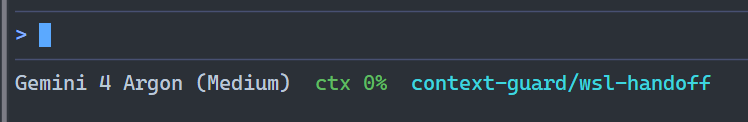
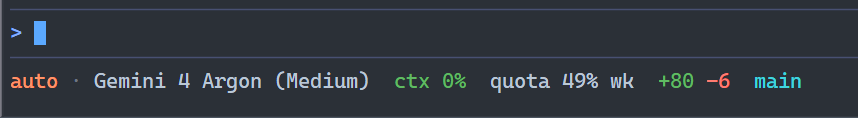
context-guard: show mode, quota and git lines in agy's status line
agy's status line data has no cost and no line counts, and the custom
line replaced agy's default one, dropping the permission mode it shows.
Each segment below shows whenever its data is present, so any agent
that sends the same fields gets them:

- the permission mode (cycle_mode), before the model, in orange
- quota in cost's place when there's no cost: how much is left of the
  usage window closest to running out (e.g. "quota 49% wk"), yellow
  under 25% and red under 10%
- lines changed from `git diff HEAD` (uncommitted, staged or not) when
  the agent doesn't count them; Claude Code keeps its session counts

The agy screenshot now shows the new line.

Changed region(s): [[0.0, 0.0, 1.0, 1.0]]

diff --git a/plugins/context-guard/README.md b/plugins/context-guard/README.md
@@ -6,11 +6,17 @@ Supported agents: [agy (Antigravity CLI)](#agy) and [Claude Code](#claude-code).
 
 ## What you get
 
-**Status line.** The model, context % and git branch. The context % is green below the nudge threshold (50 by default), yellow from the threshold, when the nudge is on, and red at 80 and above, when the nudge also asks to save state first. Session cost and lines added and removed are shown when the agent reports them.
+**Status line.** The model, context % and git branch, plus these segments when there's data for them:
+
+- **Context %:** green below the nudge threshold (50 by default), yellow from the threshold, when the nudge is on, and red at 80 and above, when the nudge also asks to save state first.
+- **Permission mode:** shown before the model when the agent sends it, e.g. `auto` or `plan` in agy.
+- **Cost:** the session cost, when the agent reports one.
+- **Quota:** shown in cost's place when the agent sends usage windows instead, e.g. agy on a subscription. It shows how much is left of the window closest to running out, e.g. `quota 49% wk` (weekly) or `5h`. Yellow under 25%, red under 10%.
+- **Lines changed:** lines added and removed. They come from the agent when it counts them for the session, otherwise from `git diff HEAD`, i.e. the repo's uncommitted changes, staged or not.
 
 agy:
 
-![context-guard status line in agy: model, ctx 0% in green, git branch](docs/statusline-agy.png)
+![context-guard status line in agy: auto mode, model, ctx 0% in green, quota 49% wk, lines added and removed, git branch](docs/statusline-agy.png)
 
 Claude Code:
 
@@ -29,7 +35,7 @@ agy's `/compact <message>` summarizes and then answers the message, so its line 
 
 | | agy | Claude Code |
 |---|---|---|
-| Status line segments | model, context %, branch | model, context %, cost, lines changed, branch |
+| Status line segments | mode, model, context %, quota, lines changed (uncommitted, from git), branch | model, context %, cost, lines changed (this session), branch |
 | Nudge hook | `PreInvocation`, first model call of each turn | `UserPromptSubmit` |
 | Where the hook comes from | the agy plugin, or the installer | the Claude Code plugin |
 | Installer flag | `--agy` | `--claude` |
@@ -163,7 +169,7 @@ To add one:
 
 - **`install.sh`:** add a `--<agent>` flag that sets the agent's config paths and writes its settings format.
 - **`prompt-hook.sh`:** add a flag for the agent's hook input keys, output format and `/compact` syntax.
-- **`statusline.sh`:** change it only if the agent's status line JSON uses other field names.
+- **`statusline.sh`:** segments show whenever their fields are present, so change it only if the agent's status line JSON uses other field names, or sends something new worth showing.
 - **Manifest:** add one if the agent has a plugin format, and add it to the test that keeps the manifests' name, version and description in sync.
 - **Tests and docs:** add tests in `test/context-guard.test.mjs`, a column in the tables above, and a column in the [repo README](../../README.md).
 
